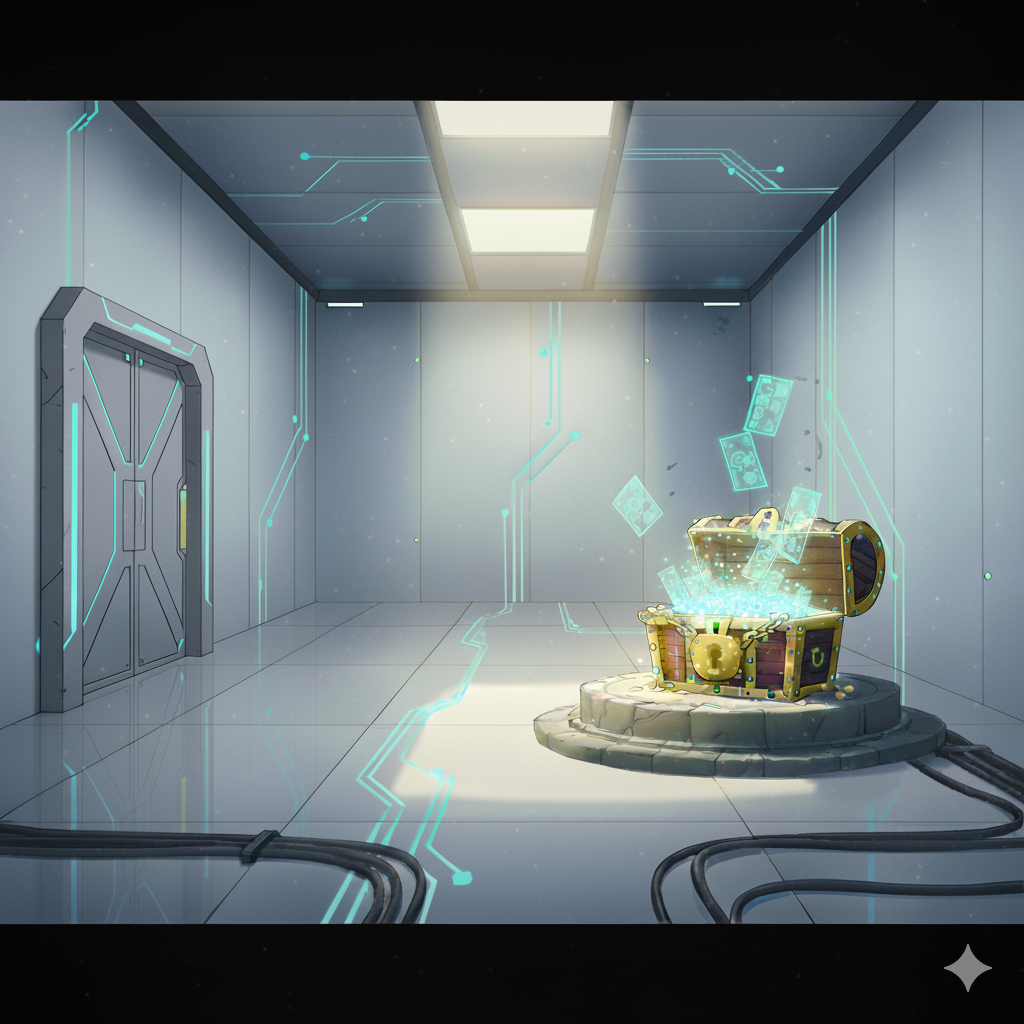
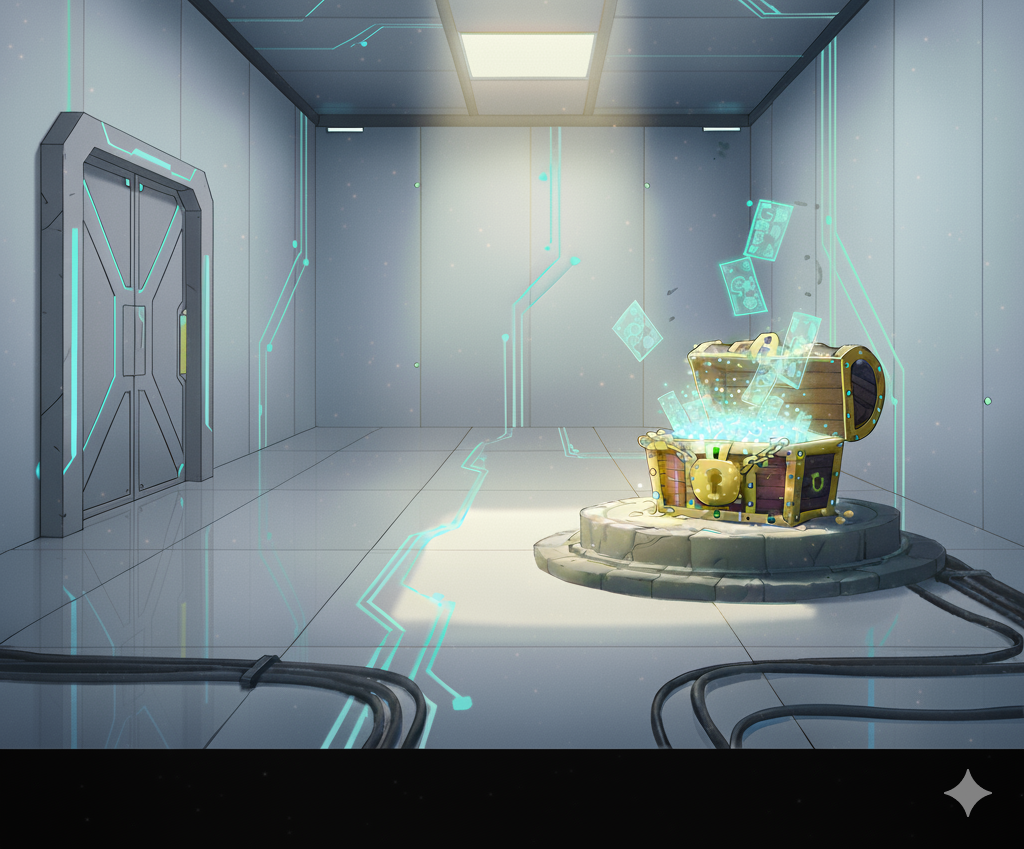
ajustado

diff --git a/Páginas de Storybook/Untitled-5.html b/Páginas de Storybook/Untitled-5.html
@@ -200,7 +200,7 @@
             </div>
 
             <div id="frame-2" class="frame">
-                <img src="https://via.placeholder.com/900x506/f0f0f0/cccccc?text=CENÁRIO:+BAÚ+DE+TESOURO+FECHADO" class="scene-background" alt="Cenário: Baú de Tesouro">
+                <img src="https://github.com/jeanscussel/credidefender/blob/main/Cen%C3%A1rios/Modulo%205/Gemini_Generated_Image_noz3pgnoz3pgnoz3.png?raw=true" class="scene-background" alt="Cenário: Baú de Tesouro">
                 <img src="https://via.placeholder.com/250x250/61B01D/046727?text=MASCOTE:+GRI-LI" class="scene-mascot mascot-pos-canto" alt="Mascote Gri-Li">
                 <div class="dialogue-box">
                     <p>Ei, pessoal! Hoje vamos falar do nosso bem mais valioso! Um verdadeiro TESOURO que guardamos aqui na cooperativa.</p>
@@ -208,7 +208,7 @@
             </div>
 
             <div id="frame-3" class="frame">
-                <img src="https://via.placeholder.com/900x506/f0f0f0/cccccc?text=CENÁRIO:+BAÚ+ABERTO+(ÍCONES+DE+DADOS)" class="scene-background" alt="Cenário: Ícones de dados saindo do baú">
+                <img src="https://github.com/jeanscussel/credidefender/blob/main/Cen%C3%A1rios/Modulo%205/Gemini_Generated_Image_b32t3ob32t3ob32t.png?raw=true" class="scene-background" alt="Cenário: Ícones de dados saindo do baú">
                 <img src="https://via.placeholder.com/250x250/61B01D/046727?text=MASCOTE:+GRI-LI" class="scene-mascot mascot-pos-canto" alt="Mascote Gri-Li">
                 <div class="dialogue-box">
                     <p>Exato! São os dados dos nossos cooperados! Informações como CPF, renda e até dados de saúde são super sensíveis.</p>
@@ -216,7 +216,7 @@
             </div>
 
             <div id="frame-4" class="frame">
-                <img src="https://via.placeholder.com/900x506/f0f0f0/cccccc?text=CENÁRIO:+ESCUDO+LGPD+PROTEGENDO+O+BAÚ" class="scene-background" alt="Cenário: Escudo LGPD">
+                <img src="https://github.com/jeanscussel/credidefender/blob/main/Cen%C3%A1rios/Modulo%205/Gemini_Generated_Image_d3hchxd3hchxd3hc.png?raw=true" class="scene-background" alt="Cenário: Escudo LGPD">
                 <img src="https://via.placeholder.com/250x250/61B01D/046727?text=MASCOTE:+GRI-LI+(COM+ESCUDO)" class="scene-mascot mascot-pos-direita" alt="Mascote Gri-Li">
                 <div class="dialogue-box">
                     <p>E é por isso que existe a LGPD, a Lei Geral de Proteção de Dados! Ela é o nosso escudo para proteger esse tesouro e, o mais importante, a CONFIANÇA do cooperado.</p>
@@ -224,7 +224,7 @@
             </div>
 
             <div id="frame-5" class="frame">
-                <img src="https://via.placeholder.com/900x506/f0f0f0/cccccc?text=CENÁRIO:+CABO+DE+REDE+NO+CHÃO" class="scene-background" alt="Cenário: Cabo de rede">
+                <img src="https://github.com/jeanscussel/credidefender/blob/main/Cen%C3%A1rios/Modulo%205/Gemini_Generated_Image_cseg9lcseg9lcseg%20(2).png?raw=true" class="scene-background" alt="Cenário: Cabo de rede">
                 <img src="https://via.placeholder.com/250x250/61B01D/046727?text=MASCOTE:+GRI-LI+(ATRAPALHADO)" class="scene-mascot mascot-pos-direita" alt="Mascote Gri-Li">
                 <div class="dialogue-box">
                     <p>Mas sabe qual é o maior risco para esse tesouro? Não é um pirata high-tech... Na maioria das vezes, o perigo está... ops... em nós mesmos! Nos erros do dia a dia.</p>
@@ -232,7 +232,7 @@
             </div>
 
             <div id="frame-6" class="frame">
-                <img src="https://via.placeholder.com/900x506/f0f0f0/cccccc?text=CENÁRIO:+TELA+DE+E-MAIL+(DESTINATÁRIO+ERRADO)" class="scene-background" alt="Cenário: Risco de E-mail">
+                <img src="https://github.com/jeanscussel/credidefender/blob/main/Cen%C3%A1rios/Modulo%205/Gemini_Generated_Image_pnl2sepnl2sepnl2.png?raw=true" class="scene-background" alt="Cenário: Risco de E-mail">
                 <img src="https://via.placeholder.com/250x250/61B01D/046727?text=MASCOTE:+GRI-LI+(OH+NÃO!)" class="scene-mascot mascot-pos-canto" alt="Mascote Gri-Li">
                 <div class="dialogue-box">
                     <p>Já pensou? Aquele clique apressado que envia o extrato de um cooperado para o e-mail de OUTRO? É um vazamento grave!</p>
@@ -240,7 +240,7 @@
             </div>
 
             <div id="frame-7" class="frame">
-                <img src="https://via.placeholder.com/900x506/f0f0f0/cccccc?text=CENÁRIO:+ELEVADOR+OU+CAFÉ+(CONVERSA)" class="scene-background" alt="Cenário: Risco de Conversa em Público">
+                <img src="https://github.com/jeanscussel/credidefender/blob/main/Cen%C3%A1rios/Modulo%205/Gemini_Generated_Image_6z0r706z0r706z0r.png?raw=true" class="scene-background" alt="Cenário: Risco de Conversa em Público">
                 <img src="https://via.placeholder.com/250x250/61B01D/046727?text=MASCOTE:+GRI-LI+(SINAL+DE+SILÊNCIO)" class="scene-mascot mascot-pos-canto" alt="Mascote Gri-Li">
                 <div class="dialogue-box">
                     <p>Ou aquela conversa no elevador sobre a 'situação financeira' de um cooperado. Lembre-se: as paredes (e os elevadores) têm ouvidos!</p>
@@ -248,7 +248,7 @@
             </div>
 
             <div id="frame-8" class="frame">
-                <img src="https://via.placeholder.com/900x506/f0f0f0/cccccc?text=CENÁRIO:+LIXEIRA+COM+PAPÉIS+SENSÍVEIS" class="scene-background" alt="Cenário: Risco de Lixo Incorreto">
+                <img src="https://github.com/jeanscussel/credidefender/blob/main/Cen%C3%A1rios/Modulo%205/Gemini_Generated_Image_k8y6k5k8y6k5k8y6.png?raw=true" class="scene-background" alt="Cenário: Risco de Lixo Incorreto">
                 <img src="https://via.placeholder.com/250x250/61B01D/046727?text=MASCOTE:+GRI-LI+(DESAPONTADO)" class="scene-mascot mascot-pos-direita" alt="Mascote Gri-Li">
                 <div class="dialogue-box">
                     <p>E aquele rascunho com dados sensíveis jogado no lixo normal? É um convite para problemas!</p>
@@ -256,7 +256,7 @@
             </div>
 
             <div id="frame-9" class="frame">
-                <img src="https://via.placeholder.com/900x506/f0f0f0/cccccc?text=CENÁRIO:+PERGAMINHO+DOURADO" class="scene-background" alt="Cenário: Regra de Ouro">
+                <img src="https://github.com/jeanscussel/credidefender/blob/main/Cen%C3%A1rios/Modulo%205/Gemini_Generated_Image_4h94wr4h94wr4h94.png?raw=true" class="scene-background" alt="Cenário: Regra de Ouro">
                 <img src="https://via.placeholder.com/250x250/61B01D/046727?text=MASCOTE:+GRI-LI+(SÁBIO)" class="scene-mascot mascot-pos-direita" alt="Mascote Gri-Li">
                 <div class="dialogue-box">
                     <p>Mas calma! Para evitar essas gafes... digo, acidentes... temos uma Regra de Ouro com duas partes. É fácil!</p>
@@ -264,7 +264,7 @@
             </div>
 
             <div id="frame-10" class="frame">
-                <img src="https://via.placeholder.com/900x506/f0f0f0/cccccc?text=CENÁRIO:+PRINCÍPIO+DA+NECESSIDADE" class="scene-background" alt="Cenário: Regra 1 - Necessidade">
+                <img src="https://github.com/jeanscussel/credidefender/blob/main/Cen%C3%A1rios/Modulo%205/Gemini_Generated_Image_4h94wr4h94wr4h94.png?raw=true" class="scene-background" alt="Cenário: Regra 1 - Necessidade">
                 <img src="https://via.placeholder.com/250x250/61B01D/046727?text=MASCOTE:+GRI-LI" class="scene-mascot mascot-pos-canto" alt="Mascote Gri-Li">
                 <div class="dialogue-box">
                     <p>Parte 1: O Princípio da Necessidade! Você só deve acessar e compartilhar o MÍNIMO de dados necessário para fazer o seu trabalho. Nem mais, nem menos.</p>
@@ -272,7 +272,7 @@
             </div>
 
             <div id="frame-11" class="frame">
-                <img src="https://via.placeholder.com/900x506/f0f0f0/cccccc?text=CENÁRIO:+PLACA+PARE+(WHATSAPP,+GMAIL+PESSOAL)" class="scene-background" alt="Cenário: Regra 2 - Canais Pessoais">
+                <img src="https://github.com/jeanscussel/credidefender/blob/main/Cen%C3%A1rios/Modulo%205/Gemini_Generated_Image_k6ftvrk6ftvrk6ft.png?raw=true" class="scene-background" alt="Cenário: Regra 2 - Canais Pessoais">
                 <img src="https://via.placeholder.com/250x250/61B01D/046727?text=MASCOTE:+GRI-LI" class="scene-mascot mascot-pos-canto" alt="Mascote Gri-Li">
                 <div class="dialogue-box">
                     <p>Parte 2 (a mais importante!): NUNCA, jamais, em hipótese alguma, use seus canais pessoais para tratar dados de cooperados!</p>
@@ -280,7 +280,7 @@
             </div>
 
             <div id="frame-12" class="frame">
-                <img src="https://via.placeholder.com/900x506/f0f0f0/cccccc?text=CENÁRIO:+CHECK+VERDE+(SISTEMAS+OFICIAIS)" class="scene-background" alt="Cenário: Canais Corretos">
+                <img src="https://github.com/jeanscussel/credidefender/blob/main/Cen%C3%A1rios/Modulo%205/Gemini_Generated_Image_k6ftvrk6ftvrk6ft.png?raw=true" class="scene-background" alt="Cenário: Canais Corretos">
                 <img src="https://via.placeholder.com/250x250/61B01D/046727?text=MASCOTE:+GRI-LI" class="scene-mascot mascot-pos-direita" alt="Mascote Gri-Li">
                 <div class="dialogue-box">
                     <p>WhatsApp pessoal? Proibido! E-mail pessoal? Nem pensar! Use APENAS os sistemas oficiais e o e-mail da cooperativa. Eles são seguros!</p>
@@ -288,7 +288,7 @@
             </div>
 
             <div id="frame-13" class="frame">
-                <img src="https://via.placeholder.com/900x506/f0f0f0/cccccc?text=CENÁRIO:+GRILO+COM+LUPA+CHECANDO+E-MAIL" class="scene-background" alt="Cenário: Solução E-mail">
+                <img src="https://github.com/jeanscussel/credidefender/blob/main/Cen%C3%A1rios/Modulo%205/Gemini_Generated_Image_cseg9lcseg9lcseg%20(1).png?raw=true" class="scene-background" alt="Cenário: Solução E-mail">
                 <img src="https://via.placeholder.com/250x250/61B01D/046727?text=MASCOTE:+GRI-LI+(INSPETOR)" class="scene-mascot mascot-pos-canto" alt="Mascote Gri-Li">
                 <div class="dialogue-box">
                     <p>Vai enviar um e-mail? Confira o destinatário. Duas, três, quatro vezes! E se tiver dados sensíveis, use senha ou criptografia!</p>
@@ -296,7 +296,7 @@
             </div>
 
             <div id="frame-14" class="frame">
-                <img src="https://via.placeholder.com/900x506/f0f0f0/cccccc?text=CENÁRIO:+GRILO+USANDO+TRITURADORA" class="scene-background" alt="Cenário: Solução Papel (Trituradora)">
+                <img src="https://github.com/jeanscussel/credidefender/blob/main/Cen%C3%A1rios/Modulo%205/Gemini_Generated_Image_xqjr9cxqjr9cxqjr.png?raw=true" class="scene-background" alt="Cenário: Solução Papel (Trituradora)">
                 <img src="https://via.placeholder.com/250x250/61B01D/046727?text=MASCOTE:+GRI-LI+(SATISFEITO)" class="scene-mascot mascot-pos-direita" alt="Mascote Gri-Li">
                 <div class="dialogue-box">
                     <p>E aquele rascunho de papel? Nosso amigo aqui, o triturador, resolve! Lixo comum, nunca mais!</p>
@@ -304,7 +304,7 @@
             </div>
 
             <div id="frame-15" class="frame">
-                <img src="https://via.placeholder.com/900x506/f0f0f0/cccccc?text=CENÁRIO:+GRILO+PRESO+NOS+PAPÉIS+TRITURADOS" class="scene-background" alt="Cenário: Grilo na trituradora">
+                <img src="https://github.com/jeanscussel/credidefender/blob/main/Cen%C3%A1rios/Modulo%205/Gemini_Generated_Image_h4fqsuh4fqsuh4fq.png?raw=true" class="scene-background" alt="Cenário: Grilo na trituradora">
                 <img src="https://via.placeholder.com/250x250/61B01D/046727?text=MASCOTE:+GRI-LI+(MÚMIA+DE+PAPEL)" class="scene-mascot mascot-pos-canto" alt="Mascote Gri-Li">
                 <div class="dialogue-box">
                     <p>Opa! Acho que me empolguei um pouco...</p>
@@ -312,7 +312,7 @@
             </div>
 
             <div id="frame-16" class="frame">
-                <img src="https://via.placeholder.com/900x506/f0f0f0/cccccc?text=CENÁRIO:+BAÚ+DE+TESOURO+(POLINDO+CADEADO+LGPD)" class="scene-background" alt="Cenário: Conclusão">
+                <img src="https://github.com/jeanscussel/credidefender/blob/main/Cen%C3%A1rios/Modulo%205/Gemini_Generated_Image_bpq3fxbpq3fxbpq3.png?raw=true" class="scene-background" alt="Cenário: Conclusão">
                 <img src="https://via.placeholder.com/250x250/61B01D/046727?text=MASCOTE:+GRI-LI" class="scene-mascot mascot-pos-canto" alt="Mascote Gri-Li">
                 <div class="dialogue-box">
                     <p>Viu só? Cumprir a LGPD não é complicado. É uma questão de cuidado diário.</p>
